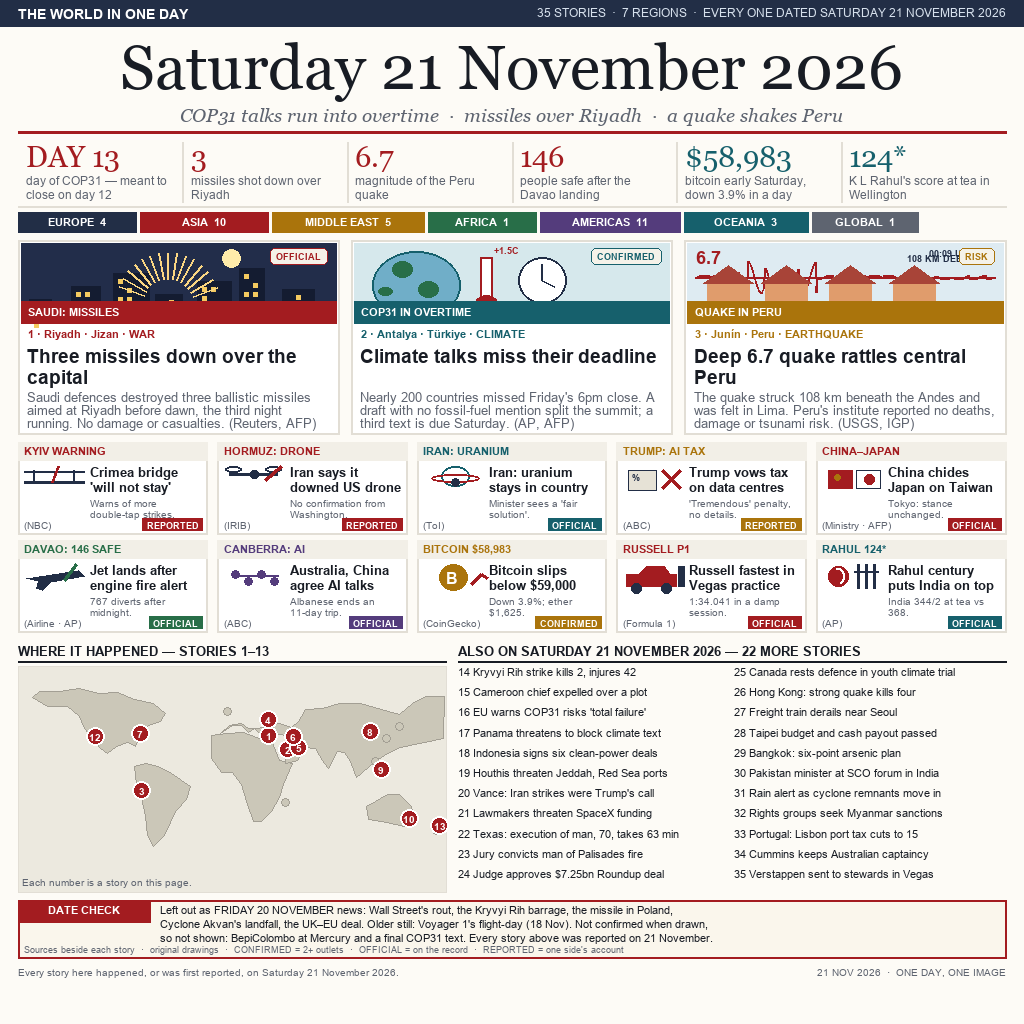
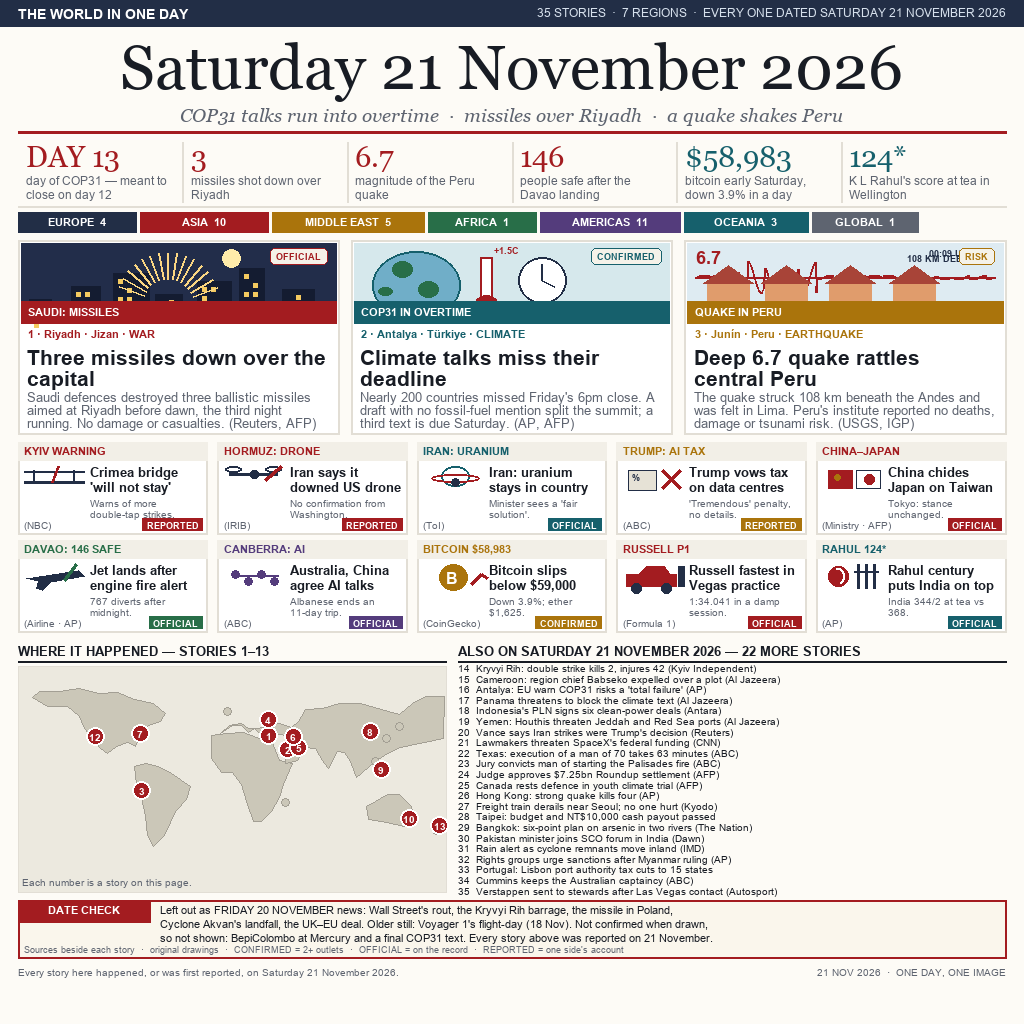
Full wire copy and stronger lead typography

Changed region(s): [[0.4375, 0.625, 0.9375, 0.875], [0.3438, 0.3438, 0.9375, 0.375], [0.0312, 0.3438, 0.3125, 0.375]]

diff --git a/tools/draw_v6.py b/tools/draw_v6.py
@@ -1,0 +1,394 @@
+#!/usr/bin/env python3
+"""Front page for Saturday 21 November 2026, built from the day's verified digest.
+
+Every illustration here is an original vector drawing made with Pillow.
+The layout carries 35 dated stories, region counts, a location map, a wire
+list, and a date check that separates 21 November reporting from earlier news.
+"""
+from PIL import Image, ImageDraw, ImageFont
+
+F = "C:/Windows/Fonts/"
+def font(name, size):
+    return ImageFont.truetype(F + name, size)
+
+INK = (24, 28, 36)
+PAPER = (253, 251, 246)
+RED = (163, 28, 32)
+RED_D = (133, 21, 25)
+TEAL = (22, 96, 108)
+GOLD = (170, 116, 12)
+PURPLE = (84, 60, 124)
+GREEN = (40, 110, 72)
+NAVY = (34, 46, 70)
+GREY = (94, 100, 112)
+FAINT = (226, 222, 213)
+WHITE = (255, 255, 255)
+NIGHT = (34, 45, 74)
+
+SERIF = font("georgia.ttf", 62)
+SERIF_SM = font("georgia.ttf", 22)
+SERIF_IT = font("georgiai.ttf", 19)
+SMALLB = font("arialbd.ttf", 13)
+MICRO = font("arial.ttf", 11)
+MICROB = font("arialbd.ttf", 11)
+HEAD = font("arialbd.ttf", 21)
+CARDHEAD = font("arialbd.ttf", 13)
+BODY = font("arial.ttf", 12.5)
+TAGF = font("arialbd.ttf", 10.5)
+BADGE = font("arialbd.ttf", 9)
+WIREF = font("arial.ttf", 10.5)
+
+im = Image.new("RGB", (1024, 1024), PAPER)
+d = ImageDraw.Draw(im)
+
+def textw(s, fnt):
+    return d.textlength(s, font=fnt)
+
+def wrap(s, fnt, maxw):
+    lines, cur = [], ""
+    for w in s.split():
+        t = (cur + " " + w).strip()
+        if textw(t, fnt) <= maxw:
+            cur = t
+        else:
+            if cur:
+                lines.append(cur)
+            cur = w
+    if cur:
+        lines.append(cur)
+    return lines
+
+def lines(s, fnt, x, y, maxw, n, fill, lh=None, size=None):
+    lh = lh or (size or (fnt.size + 3))
+    for i, ln in enumerate(wrap(s, fnt, maxw)[:n]):
+        d.text((x, y + i * lh), ln, font=fnt, fill=fill)
+    return y + len(wrap(s, fnt, maxw)[:n]) * lh
+
+def clip(s, fnt, maxw):
+    out = s
+    while out and textw(out + "…", fnt) > maxw:
+        out = out[:-1]
+    return out + "…"
+
+# ---------------- masthead ----------------
+d.rectangle([0, 0, 1024, 26], fill=NAVY)
+d.text((18, 6), "THE WORLD IN ONE DAY", font=font("arialbd.ttf", 14), fill=WHITE)
+d.text((1006, 6), "35 STORIES  ·  7 REGIONS  ·  EVERY ONE DATED SATURDAY 21 NOVEMBER 2026",
+       font=font("arial.ttf", 12), fill=(214, 224, 236), anchor="ra")
+d.text((512, 32), "Saturday 21 November 2026", font=SERIF, fill=INK, anchor="ma")
+d.text((512, 104), "COP31 talks run into overtime  ·  missiles over Riyadh  ·  a quake shakes Peru",
+       font=SERIF_IT, fill=GREY, anchor="ma")
+d.line([18, 132, 1006, 132], fill=RED, width=3)
+
+# ---------------- lead statistics ----------------
+STATS = [
+    ("DAY 13", "day of COP31 — meant to close on day 12", RED),
+    ("3", "missiles shot down over Riyadh", RED),
+    ("6.7", "magnitude of the Peru quake", RED),
+    ("146", "people safe after the Davao landing", RED),
+    ("$58,983", "bitcoin early Saturday, down 3.9% in a day", TEAL),
+    ("124*", "K L Rahul's score at tea in Wellington", TEAL),
+]
+CW = 988 / 6
+for i, (big, cap, col) in enumerate(STATS):
+    x = 18 + i * CW
+    d.text((x + 8, 140), big, font=font("georgia.ttf", 29), fill=col)
+    lines(cap, font("arial.ttf", 11.5), x + 8, 174, CW - 18, 2, GREY, 14)
+    if i:
+        d.line([x, 142, x, 202], fill=FAINT, width=2)
+d.line([18, 206, 1006, 206], fill=FAINT, width=2)
+
+# ---------------- region bar ----------------
+REGIONS = [("EUROPE  4", NAVY, 118), ("ASIA  10", RED, 128),
+           ("MIDDLE EAST  5", GOLD, 152), ("AFRICA  1", GREEN, 108),
+           ("AMERICAS  11", PURPLE, 140), ("OCEANIA  3", TEAL, 124),
+           ("GLOBAL  1", GREY, 106)]
+x = 18
+for label, col, width in REGIONS:
+    d.rectangle([x, 212, x + width, 232], fill=col)
+    d.text((x + width / 2, 216), label, font=TAGF, fill=WHITE, anchor="ma")
+    x += width + 4
+
+# ---------------- illustration helpers ----------------
+def label_bar(x, y, w, label, col=RED):
+    d.rectangle([x, y, x + w, y + 22], fill=col)
+    d.text((x + 7, y + 5), label, font=TAGF, fill=WHITE)
+
+def night_city(x, y, w, h, flare=True):
+    d.rectangle([x, y, x + w, y + h], fill=NIGHT)
+    for i in range(7):
+        bw = 22 + (i * 7) % 16
+        bx = x + 8 + i * (w - 20) / 7
+        bh = 24 + (i * 13) % 34
+        d.rectangle([bx, y + h - bh, bx + bw, y + h], fill=(20, 28, 49))
+        for r in range(3):
+            for c in range(2):
+                if (i + r + c) % 3:
+                    d.rectangle([bx + 5 + c * 9, y + h - bh + 6 + r * 9,
+                                 bx + 9 + c * 9, y + h - bh + 10 + r * 9], fill=(244, 202, 96))
+    if flare:
+        import math
+        for a in range(20, 161, 10):
+            t = math.radians(a)
+            d.line([x + w / 2 - 10 + 26 * math.cos(t), y + h - 18 - 26 * math.sin(t),
+                    x + w / 2 - 10 + 52 * math.cos(t), y + h - 18 - 52 * math.sin(t)],
+                   fill=(250, 214, 130), width=2)
+        d.ellipse([x + w / 2 + 44, y + 6, x + w / 2 + 62, y + 24], fill=(255, 236, 170))
+
+def cop_globe(x, y, w, h):
+    d.rectangle([x, y, x + w, y + h], fill=(214, 232, 236))
+    d.ellipse([x + 18, y + 8, x + 106, y + 76], fill=(112, 174, 200), outline=TEAL, width=2)
+    d.ellipse([x + 38, y + 18, x + 58, y + 34], fill=GREEN)
+    d.ellipse([x + 64, y + 38, x + 84, y + 54], fill=GREEN)
+    d.ellipse([x + 24, y + 44, x + 38, y + 52], fill=GREEN)
+    d.rectangle([x + 126, y + 14, x + 138, y + 58], fill=WHITE, outline=RED, width=2)
+    d.ellipse([x + 120, y + 52, x + 144, y + 72], fill=RED)
+    d.ellipse([x + 164, y + 14, x + 212, y + 60], fill=WHITE, outline=NAVY, width=2)
+    d.line([x + 188, y + 37, x + 188, y + 21], fill=NAVY, width=2)
+    d.line([x + 188, y + 37, x + 200, y + 43], fill=NAVY, width=2)
+    d.text((x + 140, y + 2), "+1.5C", font=BADGE, fill=RED)
+    d.text((x + 170, y + 62), "DAY 13", font=BADGE, fill=NAVY)
+
+def quake_scene(x, y, w, h):
+    d.rectangle([x, y, x + w, y + h], fill=(222, 235, 242))
+    d.line([x + 8, y + 34, x + w - 8, y + 34], fill=RED, width=2)
+    import math
+    pts = []
+    for i in range(int(w - 20)):
+        px = x + 10 + i
+        amp = 16 if 40 < i < 120 else 2
+        py = y + 34 + amp * math.sin(i / 4.5) * (1 if (i // 17) % 2 else -1)
+        pts.append((px, py))
+    d.line(pts, fill=RED, width=2)
+    for i, bx in enumerate((20, 78, 142, 206)):
+        bw = 42
+        d.rectangle([x + bx, y + h - 40, x + bx + bw, y + h - 12], fill=(224, 156, 108))
+        d.polygon([(x + bx - 4, y + h - 40), (x + bx + bw / 2, y + h - 58),
+                   (x + bx + bw + 4, y + h - 40)], fill=(168, 68, 56))
+    d.text((x + 8, y + 4), "6.7", font=font("arialbd.ttf", 18), fill=RED)
+    d.text((x + w - 74, y + 5), "00:09 UTC", font=BADGE, fill=NAVY)
+    d.text((x + w - 96, y + h - 70), "108 KM DEEP", font=BADGE, fill=NAVY)
+
+def icon_small(kind, x, y):
+    """Small original pictograms for the ten card grid."""
+    if kind == "bridge":
+        d.line([x, y + 18, x + 60, y + 18], fill=NAVY, width=3)
+        d.line([x + 10, y + 18, x + 10, y + 6], fill=NAVY, width=2)
+        d.line([x + 50, y + 18, x + 50, y + 6], fill=NAVY, width=2)
+        d.line([x, y + 7, x + 60, y + 7], fill=NAVY, width=2)
+        d.line([x + 28, y + 18, x + 34, y + 2], fill=RED, width=3)
+    elif kind == "drone":
+        d.line([x + 6, y + 10, x + 54, y + 10], fill=NAVY, width=3)
+        d.ellipse([x + 26, y + 6, x + 36, y + 14], fill=NAVY)
+        for cx in (x + 10, x + 50):
+            d.ellipse([cx - 8, y + 2, cx + 8, y + 8], outline=NAVY, width=2)
+        d.line([x + 58, y + 2, x + 42, y + 16], fill=RED, width=3)
+    elif kind == "atom":
+        d.ellipse([x + 18, y + 2, x + 46, y + 22], outline=TEAL, width=2)
+        d.ellipse([x + 8, y + 10, x + 56, y + 18], outline=RED, width=2)
+        d.ellipse([x + 28, y + 14, x + 36, y + 22], fill=NAVY)
+    elif kind == "tax":
+        d.rectangle([x + 6, y + 6, x + 34, y + 26], fill=(230, 226, 214), outline=NAVY)
+        d.line([x + 40, y + 6, x + 58, y + 24], fill=RED, width=4)
+        d.line([x + 58, y + 6, x + 40, y + 24], fill=RED, width=4)
+        d.text((x + 9, y + 8), "%", font=BADGE, fill=NAVY)
+    elif kind == "flags":
+        d.rectangle([x + 6, y + 6, x + 30, y + 24], fill=RED)
+        d.ellipse([x + 12, y + 10, x + 18, y + 16], fill=GOLD)
+        d.rectangle([x + 34, y + 6, x + 58, y + 24], fill=WHITE, outline=NAVY)
+        d.ellipse([x + 42, y + 10, x + 52, y + 20], fill=RED)
+    elif kind == "plane":
+        d.polygon([(x + 2, y + 16), (x + 54, y + 8), (x + 60, y + 14),
+                   (x + 26, y + 20), (x + 18, y + 28), (x + 12, y + 26),
+                   (x + 14, y + 19)], fill=NAVY)
+        d.line([x + 40, y + 18, x + 52, y + 2], fill=GREEN, width=3)
+    elif kind == "ai":
+        for i in range(4):
+            d.ellipse([x + 8 + i * 13, y + 8 + (i % 2) * 7,
+                       x + 16 + i * 13, y + 16 + (i % 2) * 7], fill=PURPLE)
+        d.line([x + 12, y + 13, x + 55, y + 13], fill=PURPLE, width=2)
+    elif kind == "bitcoin":
+        d.ellipse([x + 16, y + 2, x + 44, y + 28], fill=GOLD)
+        d.text((x + 23, y + 7), "B", font=font("arialbd.ttf", 16), fill=WHITE)
+        d.line([x + 48, y + 22, x + 58, y + 12, x + 64, y + 16], fill=RED, width=3)
+    elif kind == "car":
+        d.rectangle([x + 4, y + 12, x + 54, y + 24], fill=RED)
+        d.polygon([(x + 16, y + 12), (x + 24, y + 4), (x + 42, y + 4),
+                   (x + 48, y + 12)], fill=RED)
+        for cx in (x + 14, x + 44):
+            d.ellipse([cx - 5, y + 21, cx + 5, y + 31], fill=NAVY)
+        d.rectangle([x + 56, y + 4, x + 62, y + 24], fill=NAVY)
+    elif kind == "cricket":
+        d.ellipse([x + 6, y + 4, x + 26, y + 24], fill=RED)
+        d.arc([x + 10, y + 6, x + 22, y + 22], start=250, end=70, fill=WHITE, width=2)
+        for sx in (x + 36, x + 44, x + 52):
+            d.line([sx, y + 2, sx, y + 26], fill=NAVY, width=3)
+        d.line([x + 32, y + 9, x + 56, y + 9], fill=NAVY, width=2)
+
+# ---------------- three lead stories ----------------
+LEADS = [
+    (1, "Riyadh · Jizan", "WAR", "SAUDI: MISSILES", "night",
+     "Three missiles down over the capital",
+     "Saudi defences destroyed three ballistic missiles aimed at Riyadh before dawn, the third night running. No damage or casualties. (Reuters, AFP)",
+     "OFFICIAL", RED),
+    (2, "Antalya · Türkiye", "CLIMATE", "COP31 IN OVERTIME", "cop",
+     "Climate talks miss their deadline",
+     "Nearly 200 countries missed Friday's 6pm close. A draft with no fossil-fuel mention split the summit; a third text is due Saturday. (AP, AFP)",
+     "CONFIRMED", TEAL),
+    (3, "Junín · Peru", "EARTHQUAKE", "QUAKE IN PERU", "quake",
+     "Deep 6.7 quake rattles central Peru",
+     "The quake struck 108 km beneath the Andes and was felt in Lima. Peru's institute reported no deaths, damage or tsunami risk. (USGS, IGP)",
+     "RISK", GOLD),
+]
+LW = (988 - 24) / 3
+for i, (num, place, section, tag, art, head, body, badge, col) in enumerate(LEADS):
+    x = 18 + i * (LW + 12)
+    y = 240
+    d.rectangle([x, y, x + LW, y + 194], fill=WHITE, outline=FAINT, width=2)
+    iy, ih = y + 3, 80
+    if art == "night":
+        night_city(x + 3, iy, LW - 6, ih)
+    elif art == "cop":
+        cop_globe(x + 3, iy, LW - 6, ih)
+    else:
+        quake_scene(x + 3, iy, LW - 6, ih)
+    label_bar(x + 3, iy + ih - 22, LW - 6, tag, col)
+    bw = textw(badge, BADGE) + 12
+    d.rounded_rectangle([x + LW - bw - 12, iy + 5, x + LW - 12, iy + 21], radius=5,
+                        fill=(245, 242, 233), outline=col, width=1)
+    d.text((x + LW - bw / 2 - 12, iy + 8), badge, font=BADGE, fill=col, anchor="ma")
+    d.text((x + 10, y + 88), f"{num} · {place} · {section}", font=TAGF, fill=col)
+    ty = y + 105
+    for ln in wrap(head, HEAD, LW - 20)[:2]:
+        d.text((x + 9, ty), ln, font=HEAD, fill=INK)
+        ty += 21
+    lines(body, font("arial.ttf", 12.5), x + 9, y + 150, LW - 20, 3, GREY, 13)
+
+# ---------------- ten smaller stories ----------------
+CARDS = [
+    (4, "KYIV WARNING", "bridge", "Crimea bridge 'will not stay'", "Warns of more double-tap strikes.", "NBC", "REPORTED", RED),
+    (5, "HORMUZ: DRONE", "drone", "Iran says it downed US drone", "No confirmation from Washington.", "IRIB", "REPORTED", RED),
+    (6, "IRAN: URANIUM", "atom", "Iran: uranium stays in country", "Minister sees a 'fair solution'.", "ToI", "OFFICIAL", TEAL),
+    (7, "TRUMP: AI TAX", "tax", "Trump vows tax on data centres", "'Tremendous' penalty, no details.", "ABC", "REPORTED", GOLD),
+    (8, "CHINA–JAPAN", "flags", "China chides Japan on Taiwan", "Tokyo: stance unchanged.", "Ministry · AFP", "OFFICIAL", RED),
+    (9, "DAVAO: 146 SAFE", "plane", "Jet lands after engine fire alert", "767 diverts after midnight.", "Airline · AP", "OFFICIAL", GREEN),
+    (10, "CANBERRA: AI", "ai", "Australia, China agree AI talks", "Albanese ends an 11-day trip.", "ABC", "OFFICIAL", PURPLE),
+    (11, "BITCOIN $58,983", "bitcoin", "Bitcoin slips below $59,000", "Down 3.9%; ether $1,625.", "CoinGecko", "CONFIRMED", GOLD),
+    (12, "RUSSELL P1", "car", "Russell fastest in Vegas practice", "1:34.041 in a damp session.", "Formula 1", "OFFICIAL", RED),
+    (13, "RAHUL 124*", "cricket", "Rahul century puts India on top", "India 344/2 at tea vs 368.", "AP", "OFFICIAL", TEAL),
+]
+CW2 = (988 - 4 * 10) / 5
+for i, (num, tag, art, head, body, src, badge, col) in enumerate(CARDS):
+    row, colidx = divmod(i, 5)
+    x = 18 + colidx * (CW2 + 10)
+    y = 442 + row * 98
+    d.rectangle([x, y, x + CW2, y + 92], fill=WHITE, outline=FAINT, width=2)
+    d.rectangle([x, y, x + CW2, y + 18], fill=(242, 239, 231))
+    d.text((x + 6, y + 3), tag, font=TAGF, fill=col)
+    icon_small(art, x + 6, y + 22)
+    lines(head, CARDHEAD, x + 72, y + 23, CW2 - 78, 2, INK, 15)
+    lines(body, font("arial.ttf", 10), x + 72, y + 55, CW2 - 78, 2, GREY, 11)
+    d.text((x + 6, y + 78), f"({src})", font=font("arial.ttf", 9.5), fill=GREY)
+    bw = textw(badge, BADGE) + 8
+    d.rectangle([x + CW2 - bw - 5, y + 76, x + CW2 - 5, y + 88], fill=col)
+    d.text((x + CW2 - bw / 2 - 5, y + 78), badge, font=BADGE, fill=WHITE, anchor="ma")
+
+# ---------------- where it happened ----------------
+d.text((18, 644), "WHERE IT HAPPENED — STORIES 1–13", font=SMALLB, fill=INK)
+d.line([18, 661, 446, 661], fill=INK, width=2)
+mx, my, mw, mh = 18, 666, 428, 226
+d.rectangle([mx, my, mx + mw, my + mh], fill=(236, 233, 223), outline=FAINT)
+
+def ll(pt):
+    lon, lat = pt
+    return (mx + (lon + 180) / 360 * mw, my + (90 - lat) / 180 * mh)
+
+def poly(coords, fillc=(203, 199, 184), outc=(163, 159, 148)):
+    d.polygon([ll(p) for p in coords], fill=fillc, outline=outc, width=1)
+
+# Simplified continent outlines in longitude/latitude; deliberately coarse so
+# the map stays legible when the image is viewed small.
+poly([(-168,65),(-162,70),(-145,70),(-128,72),(-112,68),(-96,69),(-82,63),
+      (-66,60),(-56,52),(-60,46),(-70,43),(-76,36),(-81,26),(-88,29),
+      (-97,26),(-105,20),(-111,24),(-117,32),(-124,40),(-128,50),
+      (-138,58),(-155,58),(-168,65)])
+poly([(-82,10),(-72,12),(-62,10),(-51,4),(-35,-6),(-38,-16),(-47,-25),
+      (-52,-35),(-57,-45),(-66,-54),(-71,-45),(-73,-30),(-76,-15),(-80,-4)])
+poly([(-17,35),(-5,36),(10,37),(23,32),(33,31),(40,15),(51,12),(43,-4),
+      (40,-15),(33,-26),(25,-34),(18,-34),(12,-18),(8,-4),(0,5),
+      (-9,5),(-17,16)])
+poly([(-10,36),(-2,43),(8,44),(14,40),(20,40),(27,41),(32,45),(40,44),
+      (50,41),(56,46),(62,55),(76,56),(90,60),(108,60),(126,55),(141,51),
+      (152,60),(164,66),(179,66),(178,32),(142,25),(131,20),(121,14),
+      (110,5),(105,1),(100,14),(95,21),(89,22),(81,8),(76,15),(70,24),
+      (61,25),(55,15),(45,12),(45,35),(36,36),(30,40),(25,35),(19,40),
+      (14,37),(8,43),(0,43)])
+poly([(113,-22),(121,-18),(131,-12),(141,-12),(151,-22),(153,-30),
+      (145,-38),(130,-35),(115,-32)])
+for lon, lat in ((130,32),(141,42),(172,-41),(-4,54),(45,-19),(121,14)):
+    p = ll((lon, lat))
+    d.ellipse([p[0]-4, p[1]-4, p[0]+4, p[1]+4], fill=(203, 199, 184), outline=(163, 159, 148))
+
+GEO = [(1,36.9,30.7),(2,24.7,46.7),(3,-11.2,-76.0),(4,50.5,30.5),(5,26.6,56.3),
+       (6,35.7,51.4),(7,38.9,-77.0),(8,39.9,116.4),(9,7.2,125.5),(10,-35.3,149.1),
+       (12,36.2,-115.1),(13,-41.3,174.8)]
+for n, lat, lon in GEO:
+    gx = mx + (lon + 180) / 360 * mw
+    gy = my + (90 - lat) / 180 * mh * 0.92 + 8
+    r = 9
+    d.ellipse([gx - r, gy - r, gx + r, gy + r], fill=RED, outline=WHITE, width=2)
+    d.text((gx, gy + 0.5), str(n), font=font("arialbd.ttf", 10), fill=WHITE, anchor="mm")
+d.text((22, my + mh - 16), "Each number is a story on this page.", font=font("arial.ttf", 10), fill=GREY)
+
+# ---------------- wire list ----------------
+wx = 458
+d.text((wx, 644), "ALSO ON SATURDAY 21 NOVEMBER 2026 — 22 MORE STORIES", font=SMALLB, fill=INK)
+d.line([wx, 661, 1006, 661], fill=INK, width=2)
+WIRE = [
+    "14  Kryvyi Rih: double strike kills 2, injures 42 (Kyiv Independent)",
+    "15  Cameroon: region chief Babseko expelled over a plot (Al Jazeera)",
+    "16  Antalya: EU warn COP31 risks a 'total failure' (AP)",
+    "17  Panama threatens to block the climate text (Al Jazeera)",
+    "18  Indonesia's PLN signs six clean-power deals (Antara)",
+    "19  Yemen: Houthis threaten Jeddah and Red Sea ports (Al Jazeera)",
+    "20  Vance says Iran strikes were Trump's decision (Reuters)",
+    "21  Lawmakers threaten SpaceX's federal funding (CNN)",
+    "22  Texas: execution of a man of 70 takes 63 minutes (ABC)",
+    "23  Jury convicts man of starting the Palisades fire (ABC)",
+    "24  Judge approves $7.25bn Roundup settlement (AFP)",
+    "25  Canada rests defence in youth climate trial (AFP)",
+    "26  Hong Kong: strong quake kills four (AP)",
+    "27  Freight train derails near Seoul; no one hurt (Kyodo)",
+    "28  Taipei: budget and NT$10,000 cash payout passed",
+    "29  Bangkok: six-point plan on arsenic in two rivers (The Nation)",
+    "30  Pakistan minister joins SCO forum in India (Dawn)",
+    "31  Rain alert as cyclone remnants move inland (IMD)",
+    "32  Rights groups urge sanctions after Myanmar ruling (AP)",
+    "33  Portugal: Lisbon port authority tax cuts to 15 states",
+    "34  Cummins keeps the Australian captaincy (ABC)",
+    "35  Verstappen sent to stewards after Las Vegas contact (Autosport)",
+]
+for i, s in enumerate(WIRE):
+    d.text((wx, 662 + i * 10.6), s, font=font("arial.ttf", 10), fill=INK)
+
+# ---------------- date check ----------------
+d.rectangle([18, 900, 1006, 958], fill=(250, 246, 236), outline=RED, width=2)
+d.rectangle([18, 900, 150, 922], fill=RED)
+d.text((84, 904), "DATE CHECK", font=TAGF, fill=WHITE, anchor="ma")
+d.text((160, 904), "Left out as FRIDAY 20 NOVEMBER news: Wall Street's rout, the Kryvyi Rih barrage, the missile in Poland,",
+       font=font("arial.ttf", 10.5), fill=INK)
+d.text((160, 918), "Cyclone Akvan's landfall, the UK–EU deal. Older still: Voyager 1's flight-day (18 Nov). Not confirmed when drawn,",
+       font=font("arial.ttf", 10.5), fill=INK)
+d.text((160, 932), "so not shown: BepiColombo at Mercury and a final COP31 text. Every story above was reported on 21 November.",
+       font=font("arial.ttf", 10.5), fill=INK)
+d.text((24, 944), "Sources beside each story  ·  original drawings  ·  CONFIRMED = 2+ outlets  ·  OFFICIAL = on the record  ·  REPORTED = one side's account",
+       font=font("arial.ttf", 9), fill=GREY)
+
+d.text((18, 966), "Every story here happened, or was first reported, on Saturday 21 November 2026.",
+       font=font("arial.ttf", 10), fill=GREY)
+d.text((1006, 966), "21 NOV 2026  ·  ONE DAY, ONE IMAGE", font=font("arial.ttf", 10), fill=GREY, anchor="ra")
+
+im.save("entry.png", optimize=True)
+print("wrote entry.png v4", im.size)
+
+
